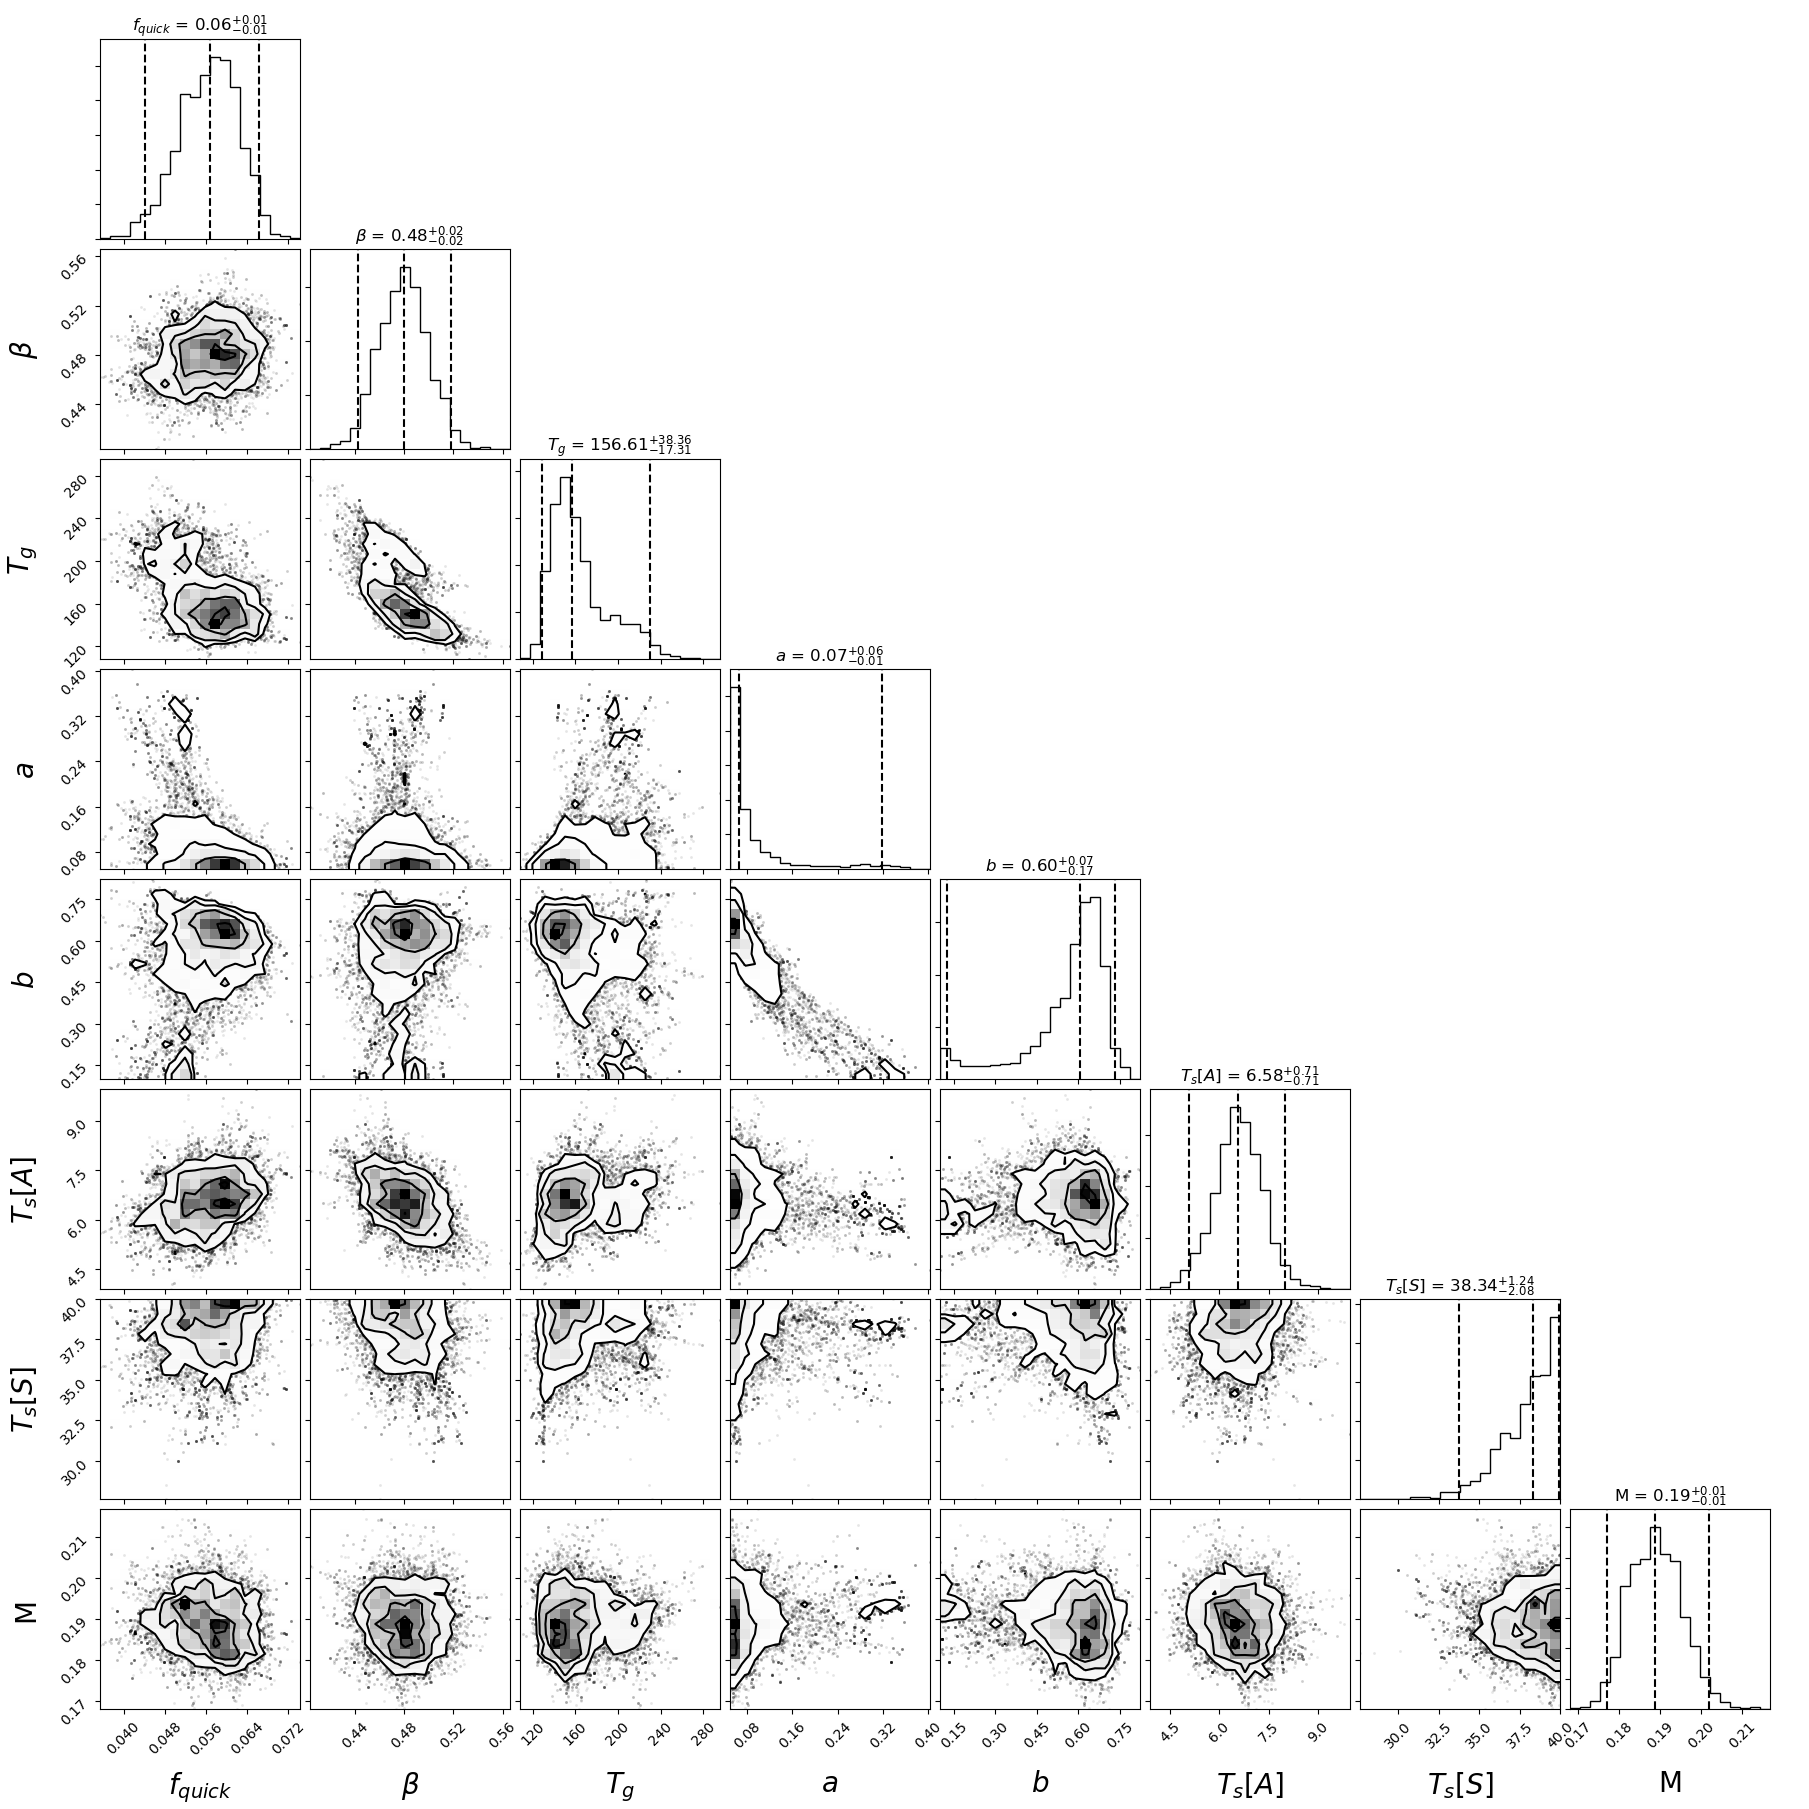
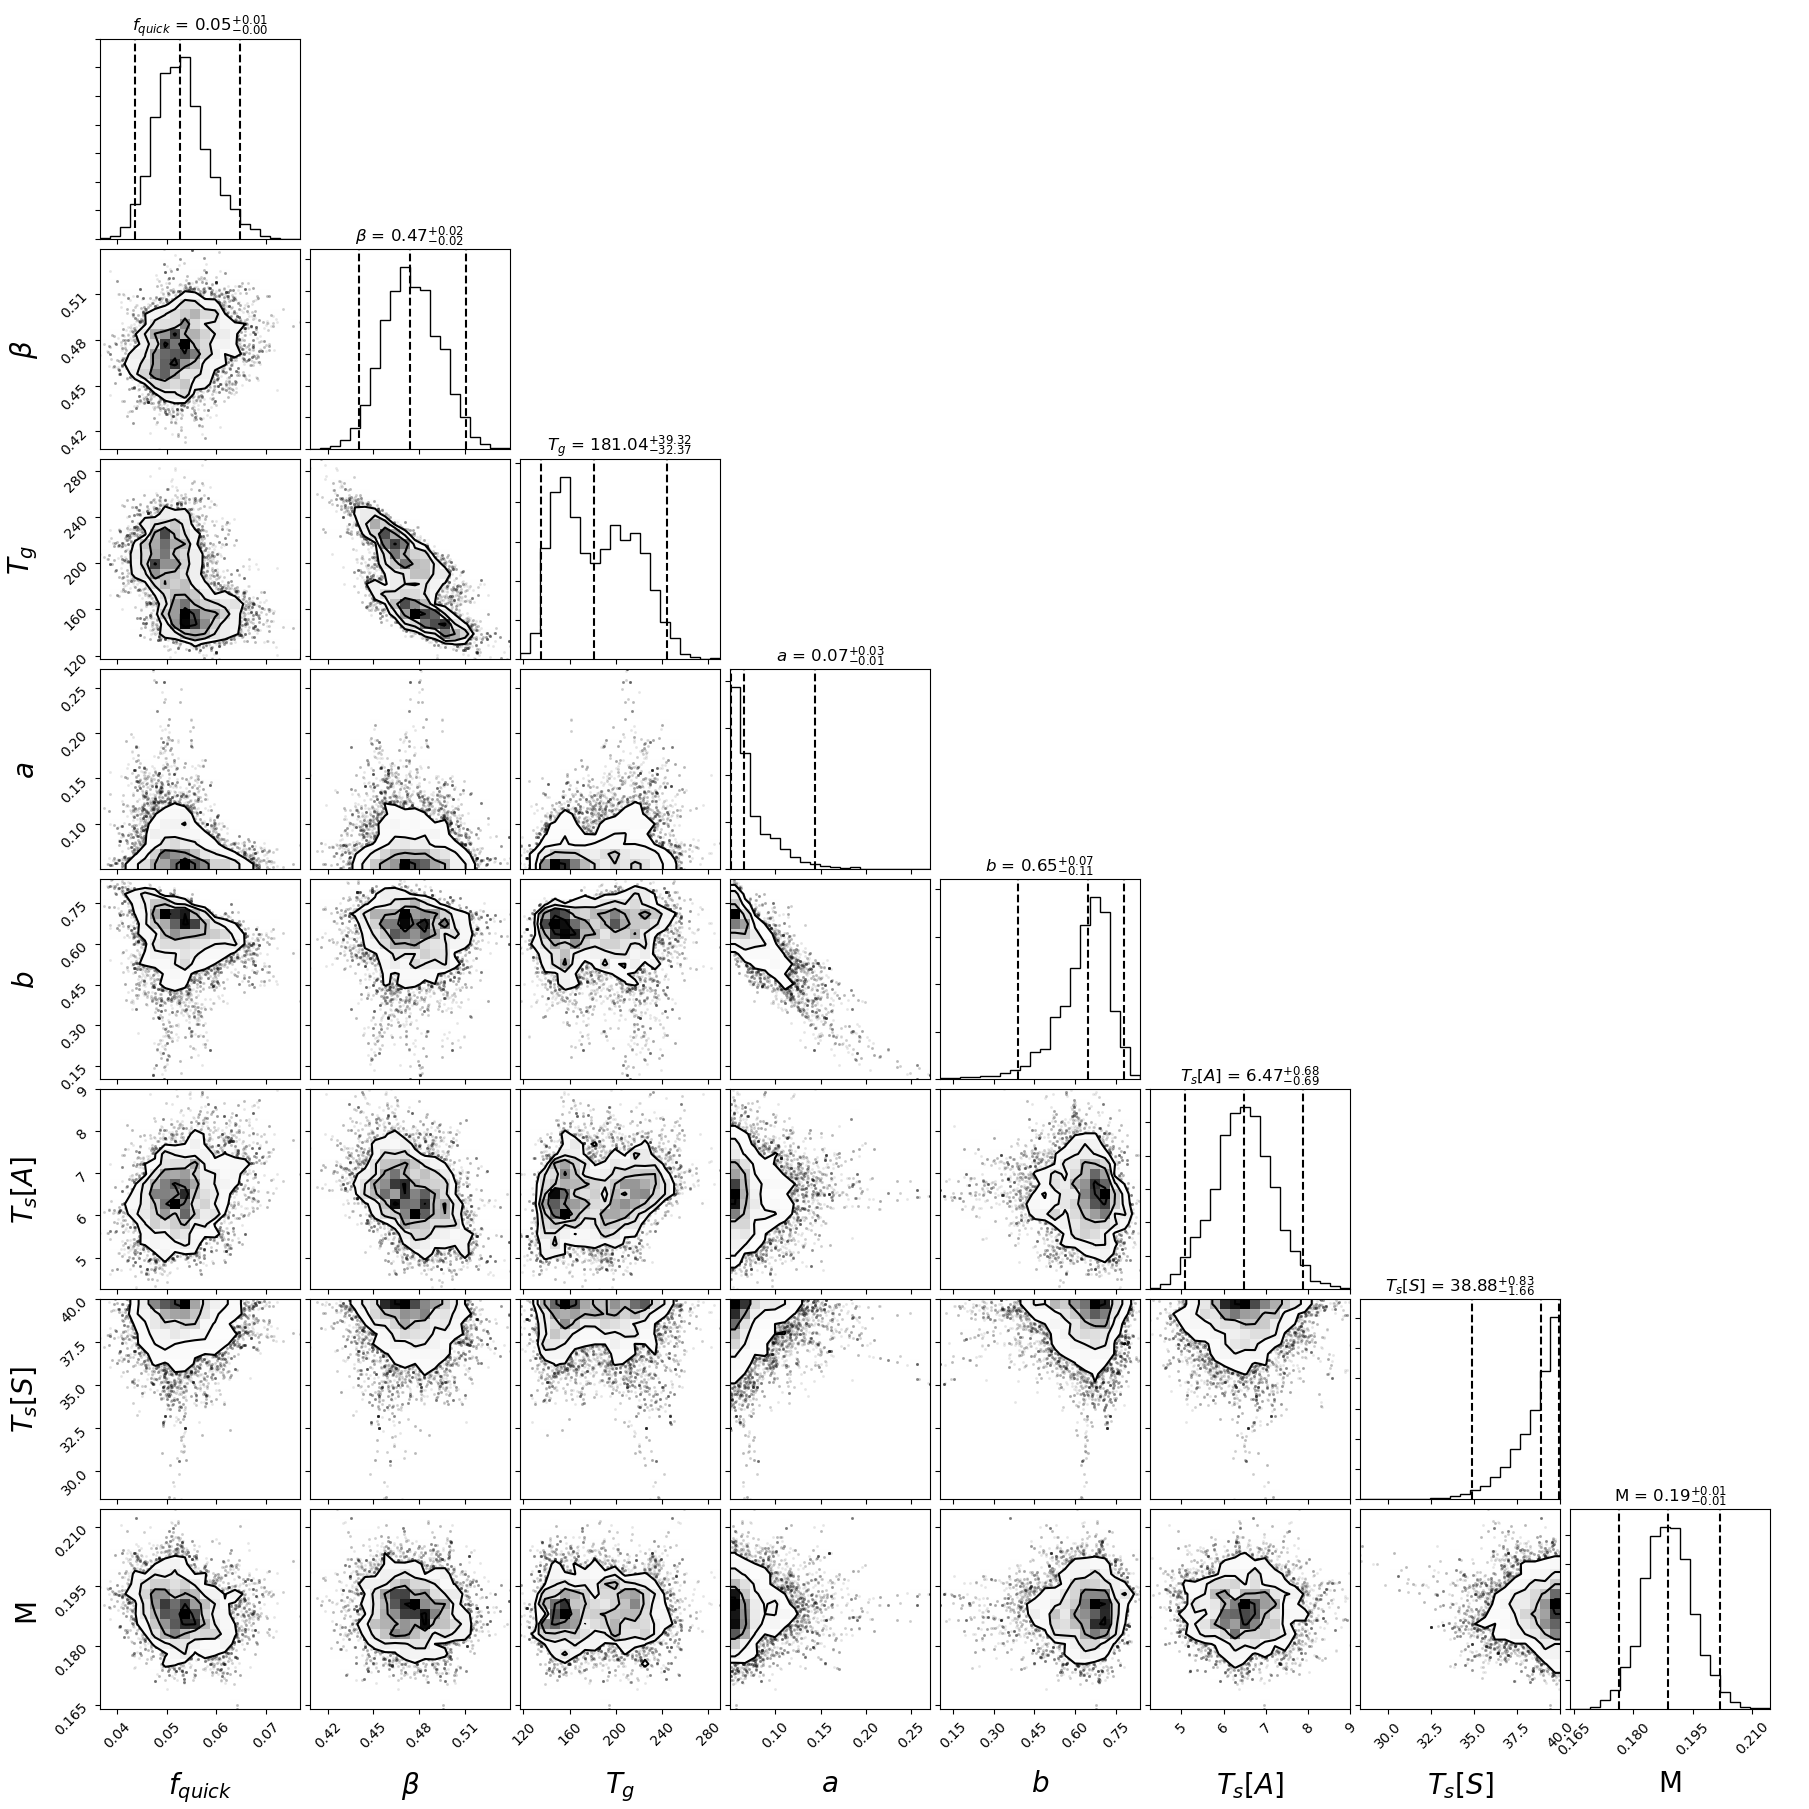
emcee stuff

diff --git a/PythonWrapper/SimplyP/simplyp_emcee.py b/PythonWrapper/SimplyP/simplyp_emcee.py
@@ -3,6 +3,7 @@
 import matplotlib, matplotlib.pyplot as plt, seaborn as sn, emcee, corner, imp, pandas as pd, datetime as dt, random
 import numpy as np
 import time
+from scipy.stats import norm
 
 wrapper_fpath = (r"..\inca.py")
 optimize_funs_fpath = (r'..\inca_calibration.py')
@@ -116,15 +117,16 @@ def triangle_plot(samplelist, labels_short, filename):
 
 	tri.savefig(filename)
 	
-def do_n_random_simulations(dataset, samplelist, calibration, objective, n_samples) :
+def do_n_random_simulations_from_sample_list(dataset, samplelist, calibration, objective, n_samples, comparison_idx) :
 
 	llfun, comparisons, skiptimesteps = objective
 	
-	comparisontolookat = comparisons[0] #TODO: Allow you to select others or multiple?
+	comparisontolookat = comparisons[comparison_idx] #TODO: Allow you to select multiple?
 	simname, simindexes, obsname, obsindexes = comparisontolookat
 	
-	sims = []
-	for it in range(1, n_random_samples) :       #TODO: Should be paralellized, really..
+	sims    = []
+	overall = []
+	for it in range(1, n_samples) :       #TODO: Should be paralellized, really..
 		
 		random_index = random.randint(0, len(samplelist)-1)
 		random_sample = samplelist[random_index]
@@ -135,15 +137,24 @@ def do_n_random_simulations(dataset, samplelist, calibration, objective, n_sampl
 		sim = dataset.get_result_series(simname, simindexes)
 	
 		sims.append(sim)
-	
-	return sims
 		
+		M = random_sample[len(calibration) + comparison_idx]
+		
+		stoch = norm.rvs(loc=0, scale=M*sim, size=len(sim))
+		perturbed = sim + stoch
+
+		overall.append(perturbed)
+	
+	return sims, overall
+	
 	
 def plot_n_random_samples(dataset, samplelist, lnproblist, calibration, objective, n_samples, filename) :
 
+	comparison_idx = 0 #TODO: Do all comparisons in multiplot?
+
 	llfun, comparisons, skiptimesteps = objective
 	
-	comparisontolookat = comparisons[0] #TODO: Do all comparisons in multiplot?
+	comparisontolookat = comparisons[comparison_idx] 
 	simname, simindexes, obsname, obsindexes = comparisontolookat
 	
 	fig, ax = plt.subplots()
@@ -152,7 +163,7 @@ def plot_n_random_samples(dataset, samplelist, lnproblist, calibration, objectiv
 	timesteps = dataset.get_parameter_uint('Timesteps', [])
 	date_idx = np.array(pd.date_range(start_date, periods=timesteps))
 	
-	sims = do_n_random_simulations(dataset, samplelist, calibration, objective, n_samples)
+	sims, overall = do_n_random_simulations_from_sample_list(dataset, samplelist, calibration, objective, n_samples, comparison_idx)
 	
 	for sim in sims :
 
@@ -175,6 +186,10 @@ def plot_n_random_samples(dataset, samplelist, lnproblist, calibration, objectiv
 	ax.set_ylabel('%s $%s$' % (obsname, dataset.get_result_unit(simname)))
 	
 	fig.savefig(filename)
+	
+	#TODO: Do stuff with overall too
+	
+	#To get percentiles, should work to do e.g.  np.percentile(sims, [0.025 0.5 0.975], axis=1) or np.percentile(overall, [0.025 0.5 0.975], axis=1)
 
 
 	
@@ -222,8 +237,8 @@ if __name__ == '__main__': #NOTE: This line is needed, or something goes horribl
 	
 
 	n_walk = 20
-	n_steps = 2000
-	n_burn = 1000
+	n_steps = 200
+	n_burn = 100
 
 	samp, lnprob = run_emcee(minval, maxval, initial_guess, calibration, objective, n_walk=n_walk, n_steps=n_steps)
 	
@@ -233,7 +248,7 @@ if __name__ == '__main__': #NOTE: This line is needed, or something goes horribl
 	
 	triangle_plot(samplelist, labels_short, "simplyp_plots\\triangle_plot.png")
 	
-	plot_n_random_samples(dataset, samplelist, lnproblist, calibration, objective, 1000, "simplyp_plots\\random_samples.png")
+	plot_n_random_samples(dataset, samplelist, lnproblist, calibration, objective, 100, "simplyp_plots\\random_samples.png")
 
 	plt.show()
 	
